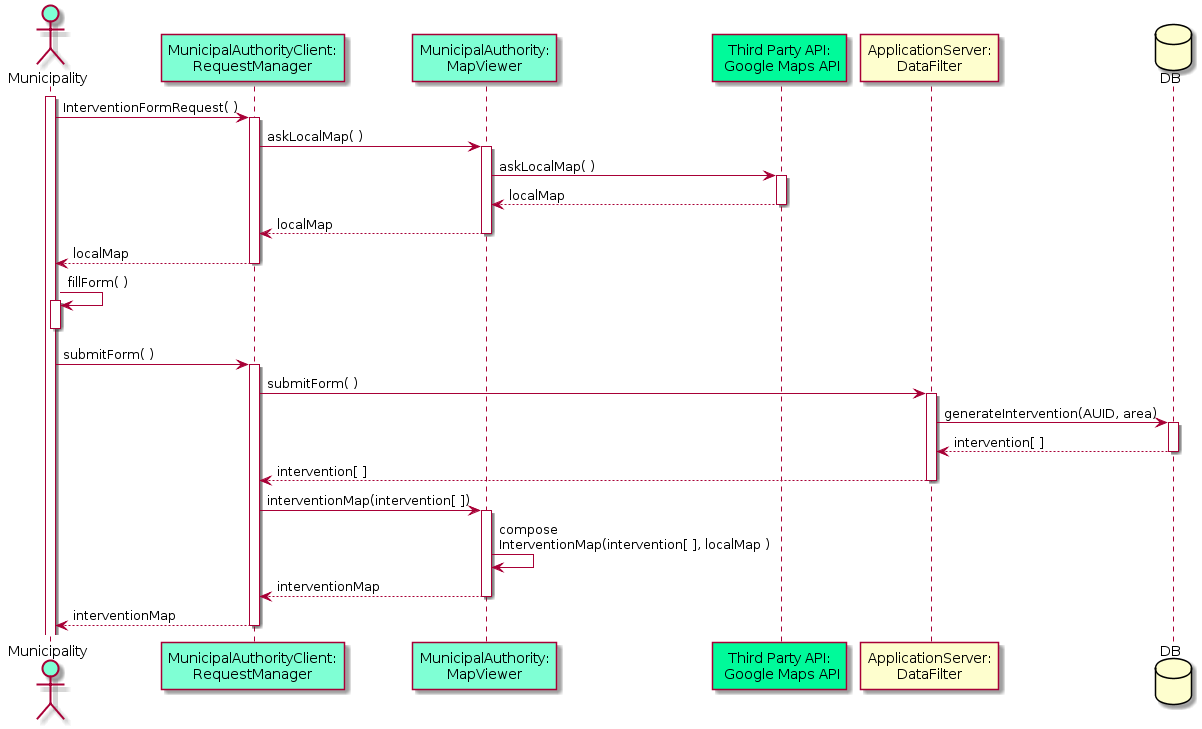
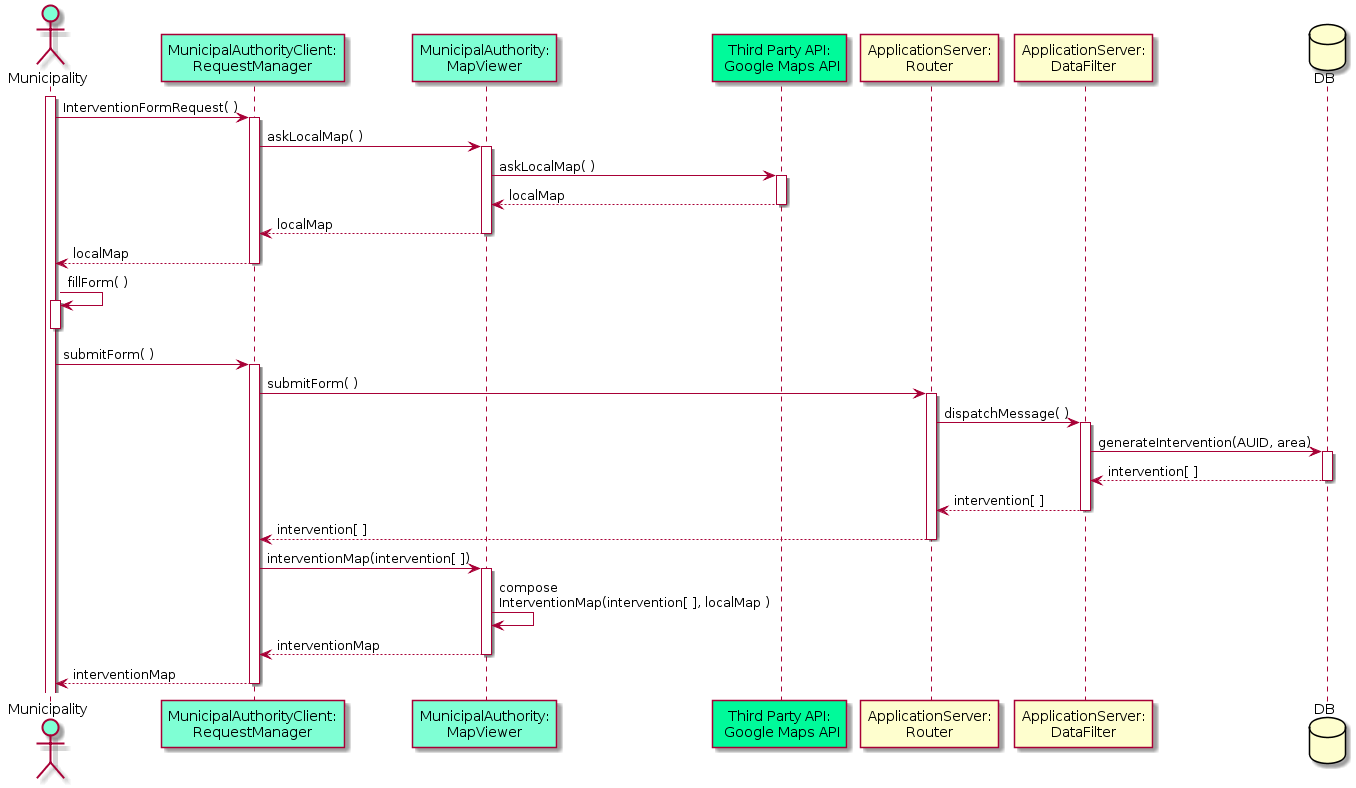
Fixed router behaviour in sequence diagrams, minor fixes

diff --git a/DD/Files/architectural.tex b/DD/Files/architectural.tex
@@ -1,6 +1,6 @@
 \subsection{Overview}
-During the definition of this architecture both the top-down and bottom-up approach were used: at first we defined the main somponents of the system (top-down) treating them as black boxes, then we studied how to connect and use the aformentioned modules in order to make the system satisfy its requirements and reach its goals(bottom-up).\\
-The application architecture will be a service-oriented one, thus it will be self contained and its components will be trated with a black box mentality; also the coupling between its components will be kept low, their reusability high and they will be stateless.\\
+During the definition of this architecture both the top-down and bottom-up approach were used: at first we defined the main somponents of the system (top-down) considering them as black boxes, then we studied how to connect and use the aformentioned modules in order to make the system satisfy its requirements and reach its goals (bottom-up).\\
+The application architecture will be a service-oriented (SOA) one, thus it will be self contained and its components will be treated with a black box mentality; also the coupling between its components will be kept low, their reusability high and they will be stateless.\\
 Given the nature of the application, a three layer approach has been chosen.\newline
 \begin{figure}[h!]
 	\centering
@@ -230,7 +230,7 @@ This sections explores many meaningfull design decisions that deserve further sp
 		\item Escaping and filtering login fields in order to avoid code injections
 		\item All communication must happen over a secure channel (HTTPS)
 		\item An anti cross site request forgery token is needed, in particular for Municipal Authority web interface
-		\item firewalls at every point of connection between separate components
+		\item Firewall use for components expoliting an internet connection in order to guarantee (at least) a basic malitious data filter.
 	\end{itemize}
 	
 	\item Database: for this application a relational database has been chosen, since involving any other kind of solution would be a waste of resources for no sensible inprovement on the system
